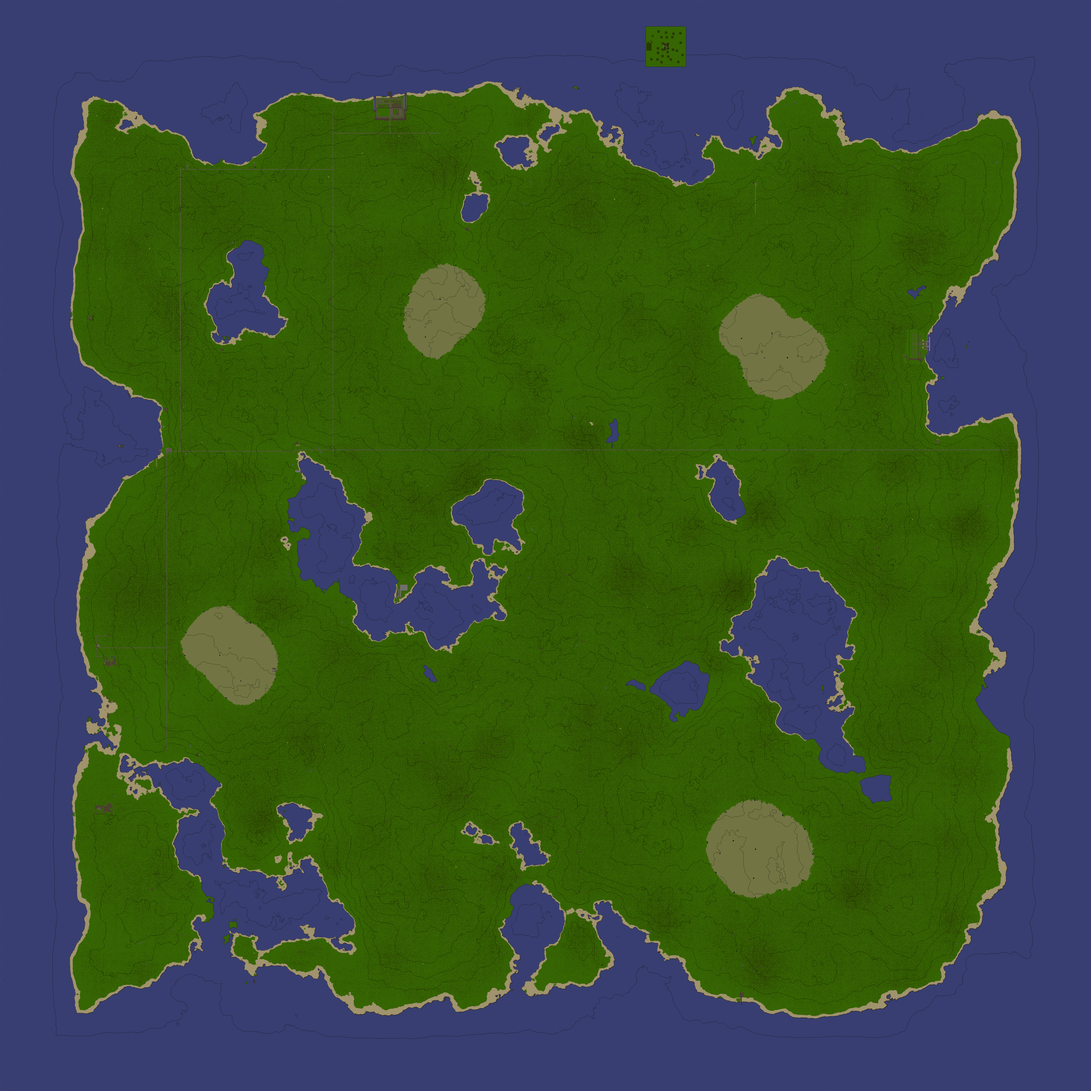
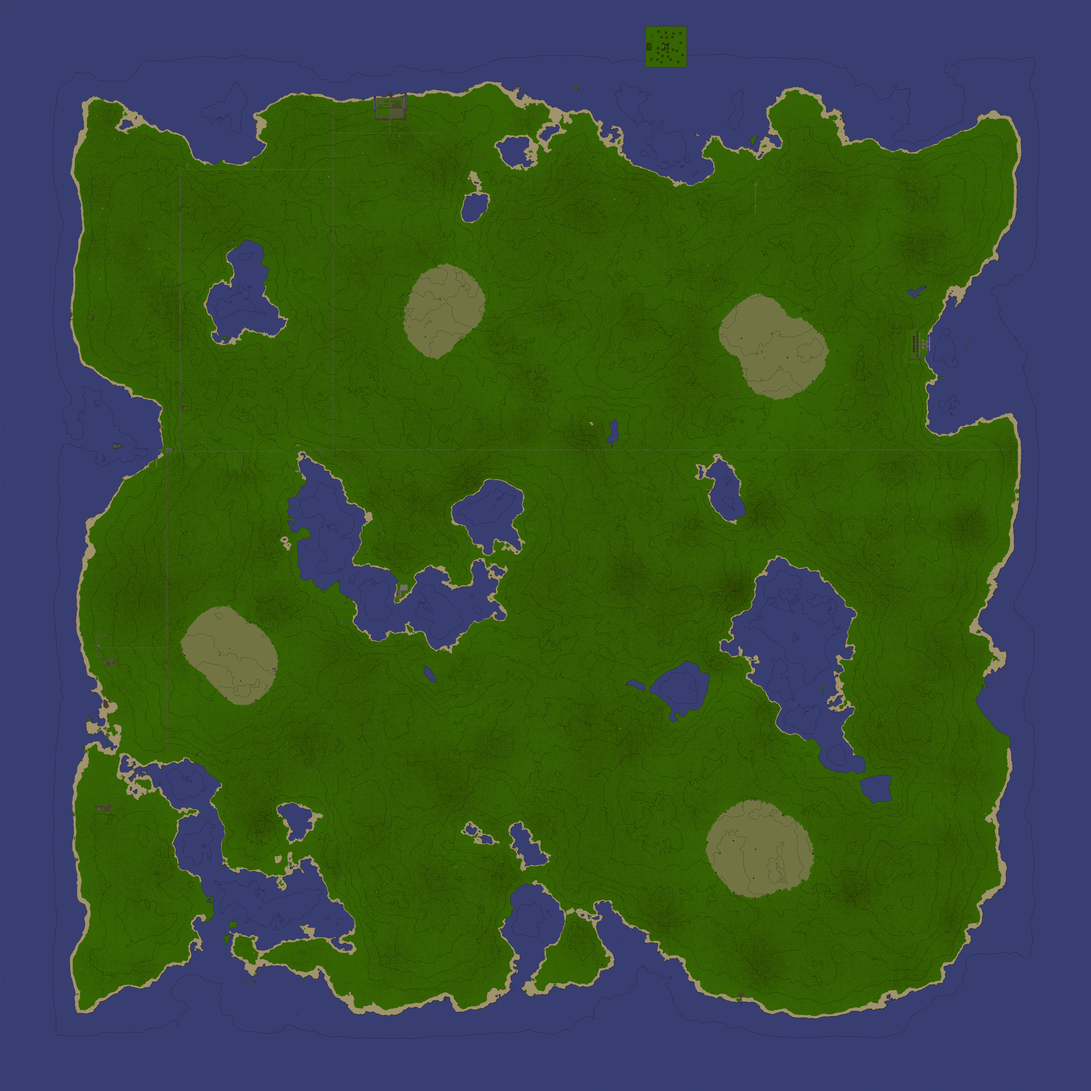
Add files via upload

diff --git a/config.js b/config.js
@@ -96,10 +96,11 @@ deeds.push(new Deed('Kleinhawe','Gromble','Gromble',1678427873783,false,4,617,15
 deeds.push(new Deed('Kito','Master','Master',1678449164984,false,4,1195,1673,180,false,1190,1668,1200,1678,0));
 deeds.push(new Deed('Serenity Valley','Steve','Steve',1678490811657,false,4,832,1311,52,false,827,1306,837,1316,0));
 deeds.push(new Deed('Rhamahold','Rhamshinn','Rhamshinn',1678548528650,false,4,2783,3728,33,false,2773,3718,2793,3738,0));
-deeds.push(new Deed('Hill Of Vynora','Temilia','Temilia',1678552293875,false,4,456,1674,45,false,431,1668,462,1680,0));
-focusZones.push(new FocusZone('llll',3484,1289,-24,16,3484,1257,3484,1321));
-focusZones.push(new FocusZone('lll',2436,175,153,17,2426,160,2446,190));
-focusZones.push(new FocusZone('jjj',2436,175,153,17,2426,160,2446,190));
+deeds.push(new Deed('Hill Of Vynora','Temilia','Temilia',1678552293875,false,4,456,1674,45,false,416,1664,462,1684,0));
+deeds.push(new Deed('Grove','Forest','Forest',1678593072959,false,4,2669,1833,21,false,2648,1812,2690,1854,0));
+deeds.push(new Deed('Merryvale','Moontsu','Moontsu',1678624582781,false,4,693,1529,310,false,686,1523,700,1536,0));
+deeds.push(new Deed('The Dragon\'s Keep','Eveswaffora','Eveswaffora',1678795571378,false,4,872,1732,381,false,842,1702,902,1762,0));
+deeds.push(new Deed('Danger Island','Dragon','Dragon',1678831259293,false,4,2499,174,298,false,2419,94,2579,254,0));
 kingdoms[0] = new Kingdom(0,'no known kingdom','','[color-list]');
 kingdoms[1] = new Kingdom(1,'Jenn-Kellon','','');
 kingdoms[2] = new Kingdom(2,'Mol Rehan','','');
@@ -107,6 +108,7 @@ kingdoms[3] = new Kingdom(3,'Horde of the Summoned','','');
 kingdoms[4] = new Kingdom(4,'Freedom Isles','','');
 guardTowers.push(new GuardTower('',16416403,4,2456,2508,180,''));
 guardTowers.push(new GuardTower('',21108450,4,398,2479,154,''));
+guardTowers.push(new GuardTower('',28720584,4,1525,451,237,''));
 highwayNodes = [
    [1251,1689,186,1117,1689,52],[1250,1688,186,1251,1689,186],[1250,1689,186,1250,1688,186,1],[1112,1694,50,1117,1689,52],[1250,636,466,677,636,221,1],
    [626,1699,66,1],[1250,500,218,1250,1349,241,1],[1250,500,218,1463,500,327,1],[644,1694,66,1],[1464,440,109,1464,499,326,1],
@@ -119,4 +121,4 @@ bridgeNodes = [
 ];
 tunnelNodes = [
 ];
-var timestamp = 1678582162048;
+var timestamp = 1678919934544;
